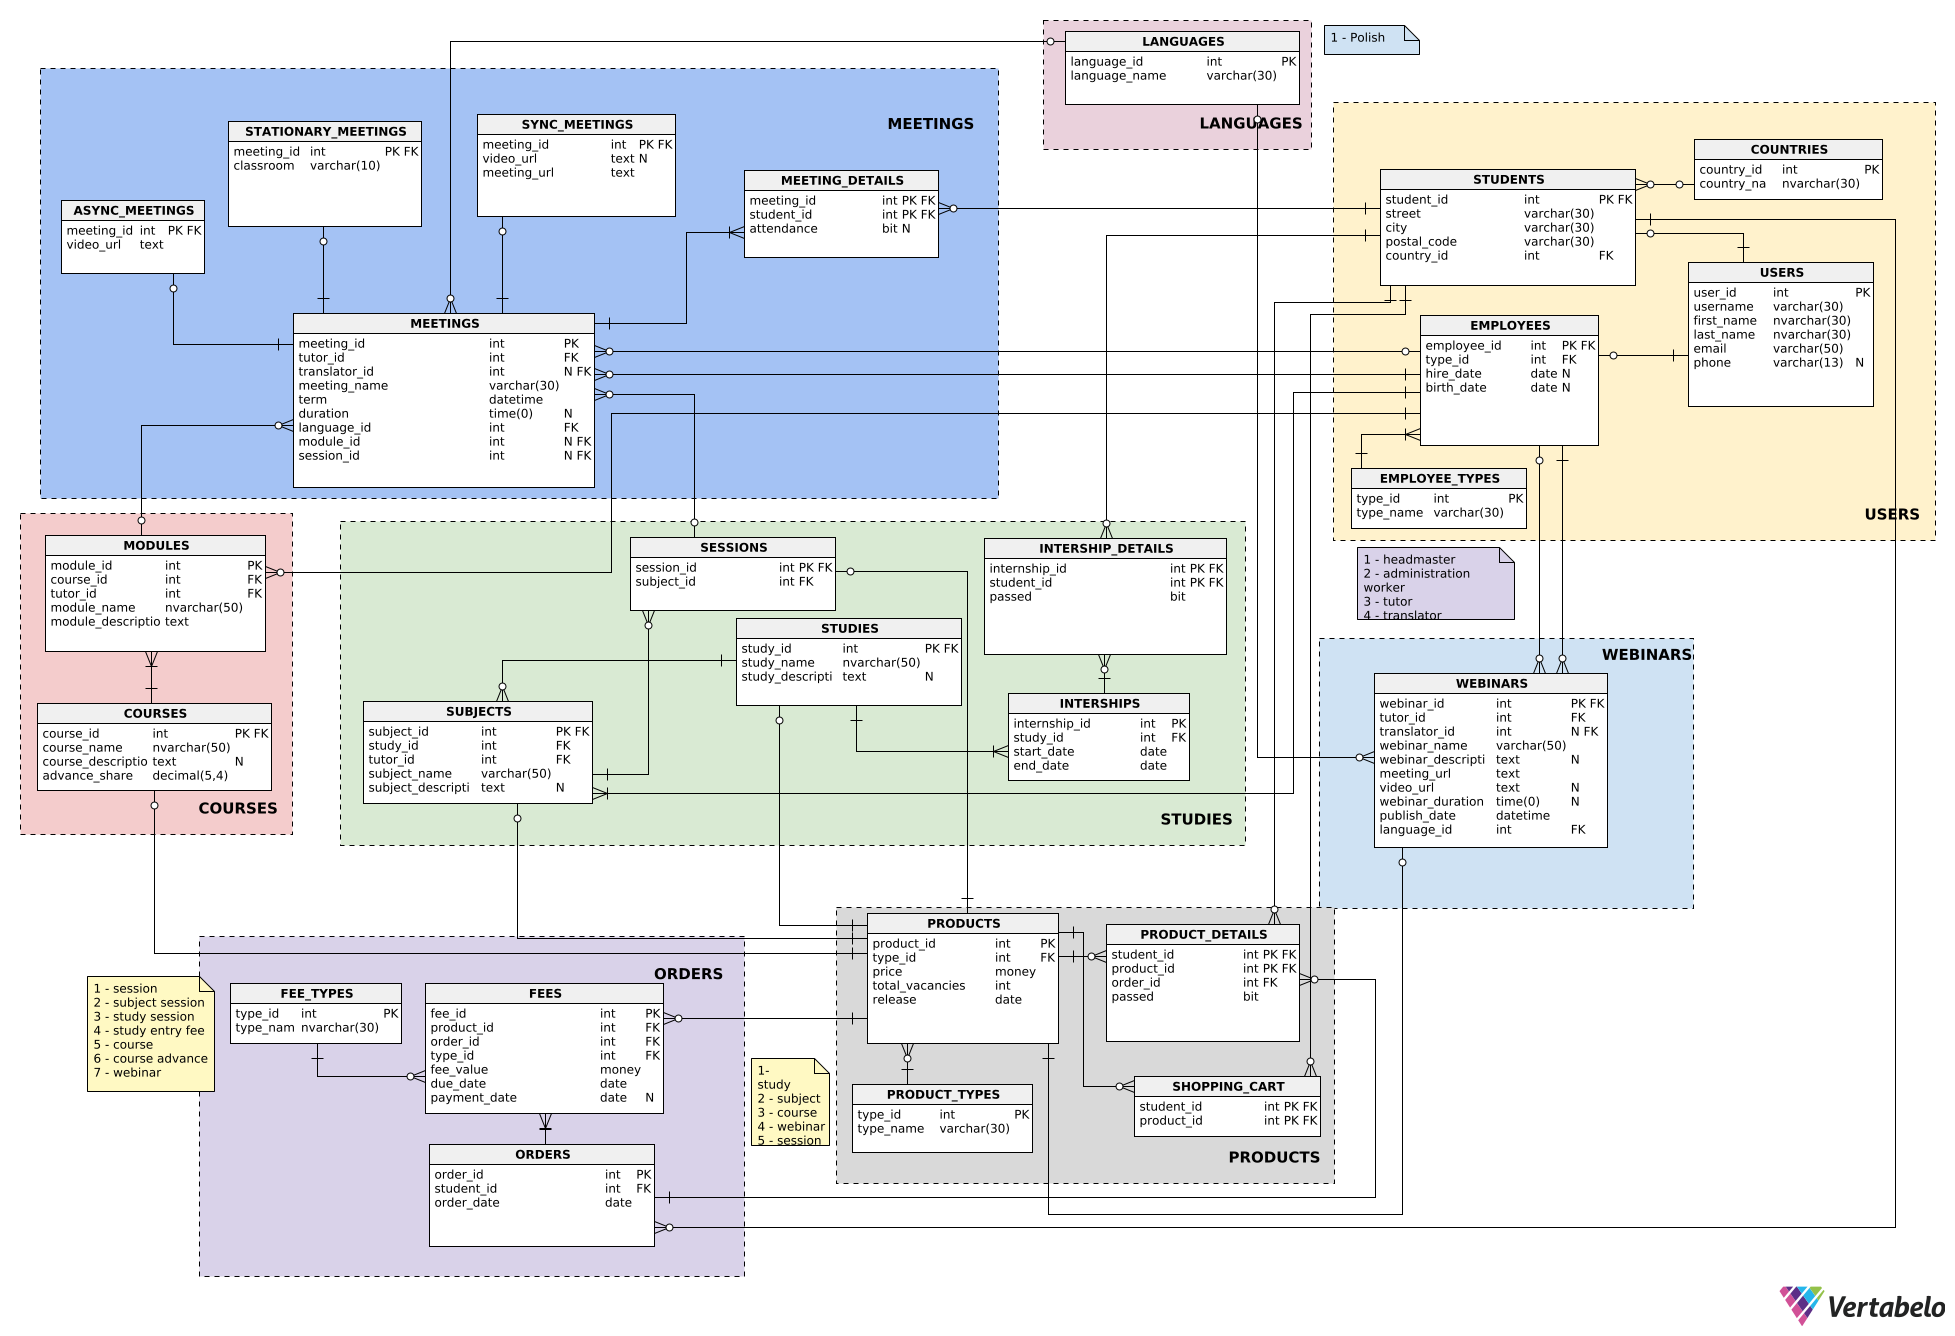
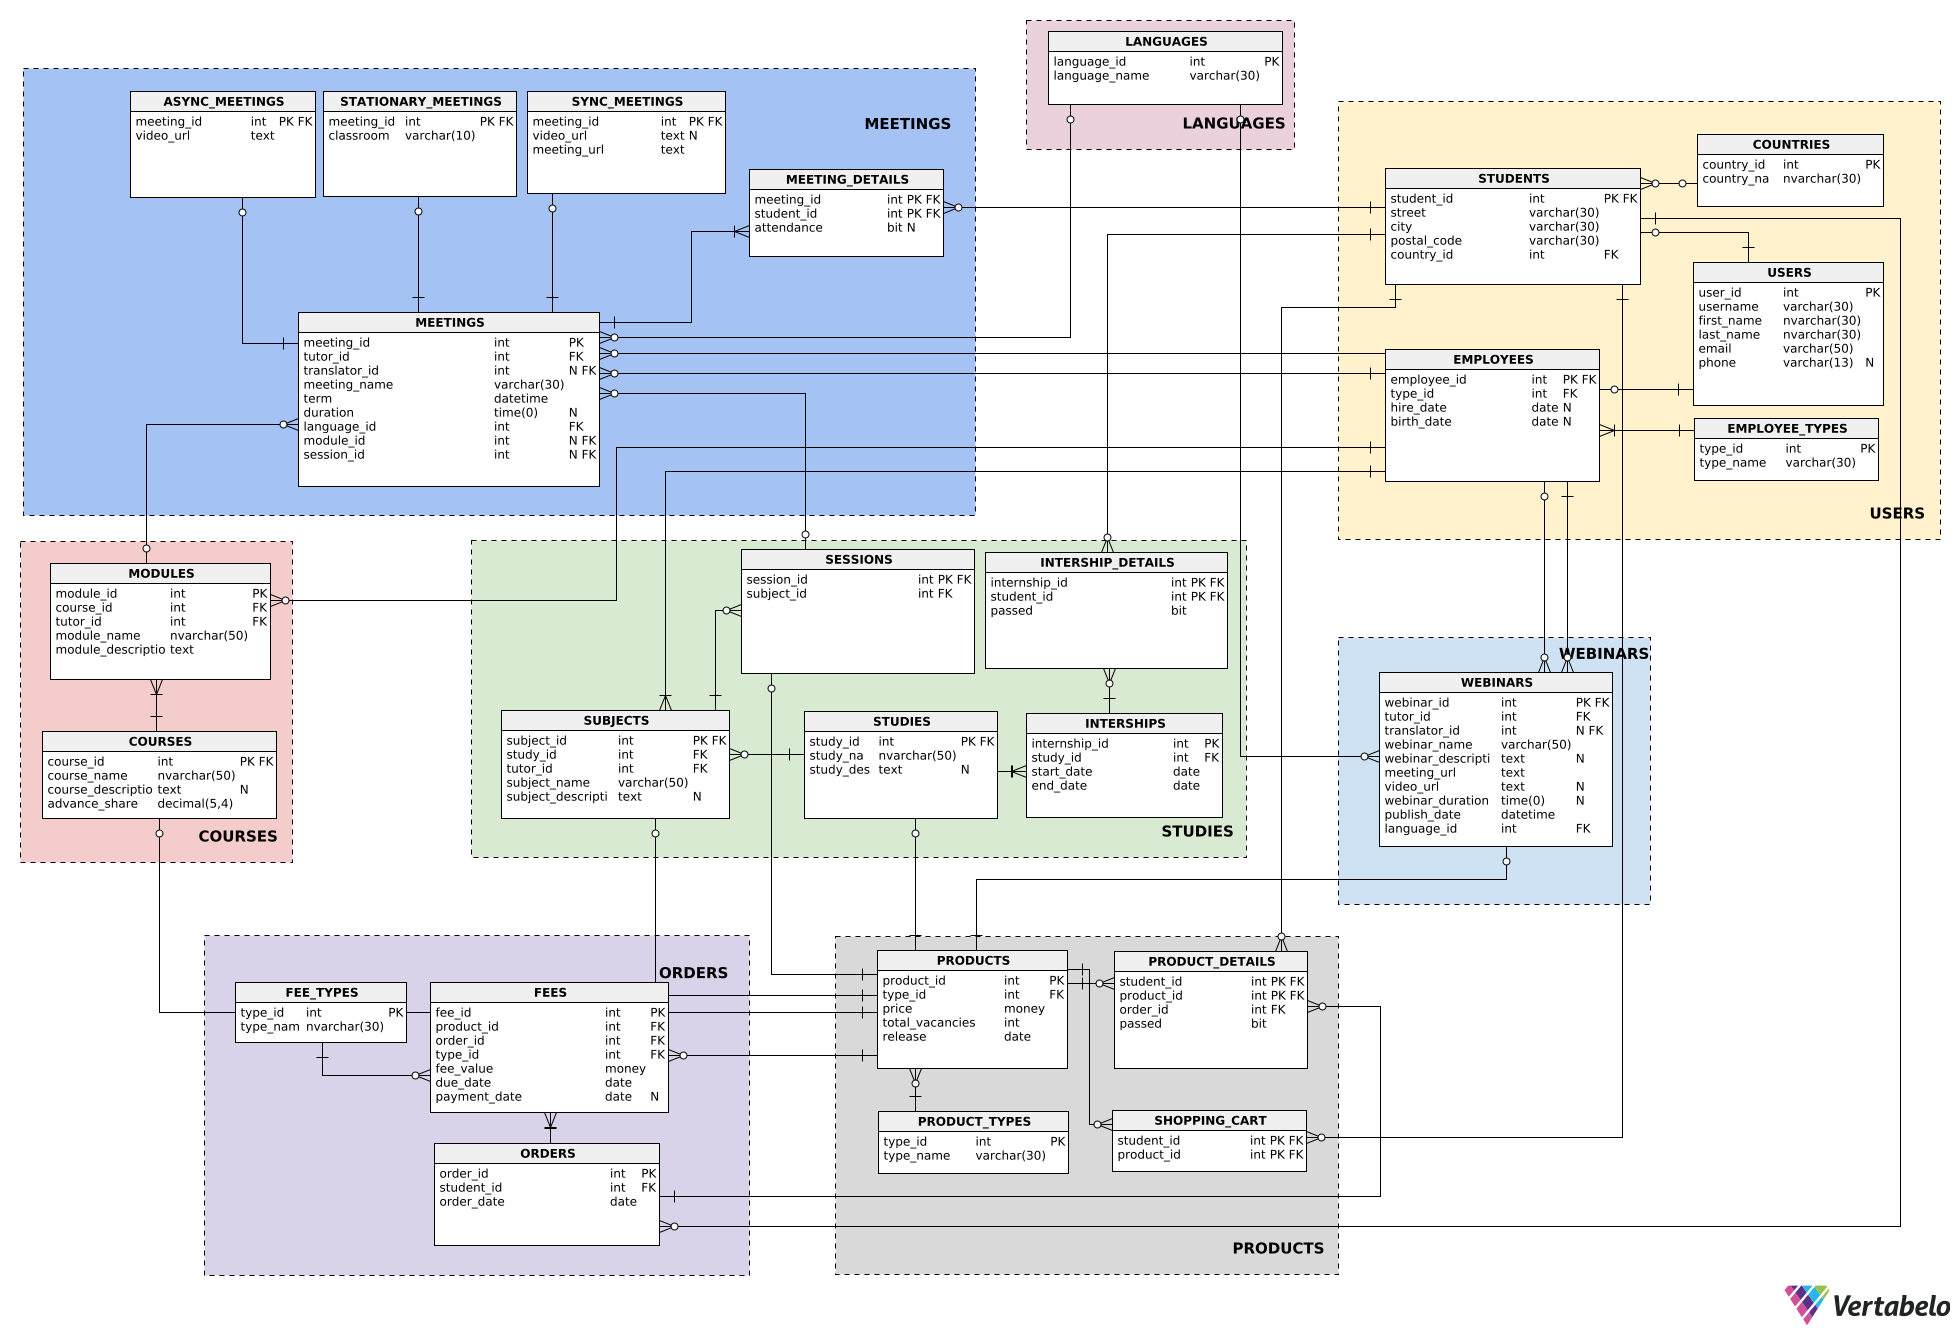
[PF] [edit] Update README.md, update schemat.png

diff --git a/README.md b/README.md
@@ -1,1 +1,29 @@
-# bazy-danych-2025
+# Projekt: Systemu Bazodanowy Uczelni
+## Podstawy Baz Danych 2025
+
+Projekt został stworzony na potrzeby przedmiotu "Bazy Danych" realizowanego w roku akademickim 2025.
+
+Autorzy:
+- Dariusz Marecik [[FloudMe]](https://github.com/FloudMe77)
+- Filip Węgrzyn [[wegorz13]](https://github.com/wegorz13)
+- Paweł Fornagiel [[pFornagiel]](https://github.com/pFornagiel)
+
+### Zadanie
+
+Pełna treść realizowanego zadania dostępna jest [tutaj](https://github.com/pFornagiel/bazy-danych-2025/blob/main/BD_2024.pdf).
+
+Realizowane zadanie, w przybliżeniu, polegało na zaprojektowaniu i wdrożeniu systemu bazodanowego dla firmy oferującej różnego rodzaju formy kształcenia: studia, kursy oraz webinary. Model świadczenia usług przez firmę jest problematyczny ze względu na niejednolitą formułę realizacji form kształcenia.
+
+Wymagane elementy systemu, które zostały przez nas zaimplementowane to obsługa:
+
+- użytkowników - wraz z obsługą ich obecności, koszyków, zakupów,
+- pracowników - wraz z wyznaczeniem ról i odpowiednich uprawnień,
+- webinarów – jednorazowych, nagrywanych spotkań online,
+- kursów – zbiorów spotkań w trzech różnych formach: stacjonarne, online synchroniczne, online asynchroniczne (kurs może obejmować więcej niż jeden rodzaj spotkań),
+- studiów – zestawów przedmiotów składających się z zajęć studyjnych, które mogą odbywać się w tych samych formach, co kursy,
+- tworzenia i zarządzenia zamówieniami na wyżej wymienione produkty edukacyjne
+
+### Schemat ukończonej bazy danych
+![schemat bazy](schemat.png)
+
+
